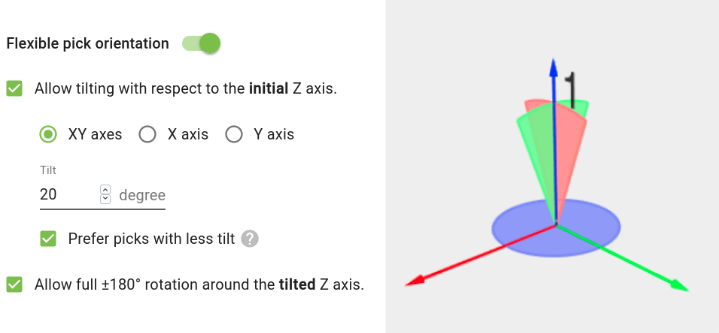
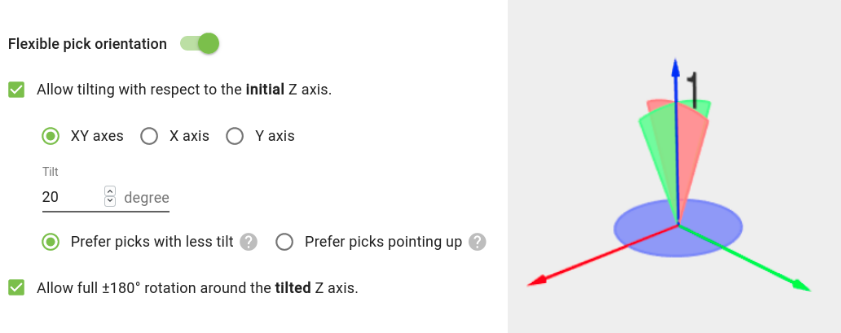
SQUASHME: Prefer tilting less radio and example

diff --git a/docs/documentation/picking/flexible-pick-orientation.rst b/docs/documentation/picking/flexible-pick-orientation.rst
@@ -28,7 +28,7 @@ Flexibility around each axis is represented as a circular sector as wide as the 
 It can be visualized in the robot tool and pick point views.
 
 .. image:: /assets/images/documentation/picking/flexible_pick_orientation_ui_with_3d.png
-  :scale: 70%
+  :scale: 80%
   :align: center
 
 The following examples show, from left to right:
@@ -42,13 +42,18 @@ The following examples show, from left to right:
 
 It's possible to instruct Pickit how much we want the tool to use its tilt flexibility:
 
-When **Prefer picks with less tilt** is enabled, the tilting flexibility will *only* be used to make a point pickable, such as to :ref:`avoid a collision <collision-prevention>` between the robot tool and the bin or other objects.
+When **Prefer picks with less tilt** is selected, the tilting flexibility will *only* be used to make a point pickable, such as to :ref:`avoid a collision <collision-prevention>` between the robot tool and the bin or other objects.
 If apart from tilting, the tool additionally allows rotating about the Z-axis, this rotation will be used to align as close as possible to the :ref:`preferred pick orientation <preferred-orientation>`.
 This is the default setting, and is recommended whenever tilting the tool decreases the likelihood of pick success. For instance, some suction cups might have more difficulty establishing vacuum when highly tilted.
 
-On the other hand, when **Prefer picks with less tilt** is disabled, the tilting flexibility will be used to align as much as possible with the :ref:`preferred pick orientation <preferred-orientation>`, which typically points up.
+On the other hand, when **Prefer picks pointing up** is selected, the tilting flexibility will be used to align as much as possible with the :ref:`preferred pick orientation <preferred-orientation>`, which points up.
 The real application pictures shown above correspond to this situation.
 Prefer this setting when you want to minimize tilting of the robot flange.
+
+The below image shows the difference between the two alternatives for a gripper allowed to tilt 30°.
+
+.. image:: /assets/images/documentation/picking/prefer_tilting_less.png
+  :align: center
 
 .. tip::
   Apart from the :ref:`flexible pick orientation <flexible-pick-orientation>` of the robot tool model, :ref:`multiple pick points <multiple-pick-points>` and pick point :ref:`symmetry axes <pick-point-symmetry-axis>` are other strategies for increasing the likelihood of an object being pickable.

diff --git a/docs/documentation/picking/index.rst b/docs/documentation/picking/index.rst
@@ -64,7 +64,7 @@ Once pick points are specified, there are a number of options that influence how
   - :ref:`Preferred pick point orientation: <preferred-orientation>` Pick points can have flexibility in how they are oriented.
     This flexibility can be used to favor pick orientations that are easier and faster to reach by the robot (e.g. less wrist motion).
 
-  - :ref:`Maximum robot flange tilt: <max_angle_pick_z_ref_z>` When the robot flange tilts too much to pick an object, it is more likely that picking it will result in unreachable robot motions.
+  - :ref:`Maximum robot flange tilt: <max-robot-flage-tilt>` When the robot flange tilts too much to pick an object, it is more likely that picking it will result in unreachable robot motions.
     This option allows to label objects that are too tilted as unpickable.
 
   - :ref:`Minimum distance between robot flange and ROI: <flange-filter>` This allows limiting lateral deviations of the robot flange away from the bin walls, at the pick point.
